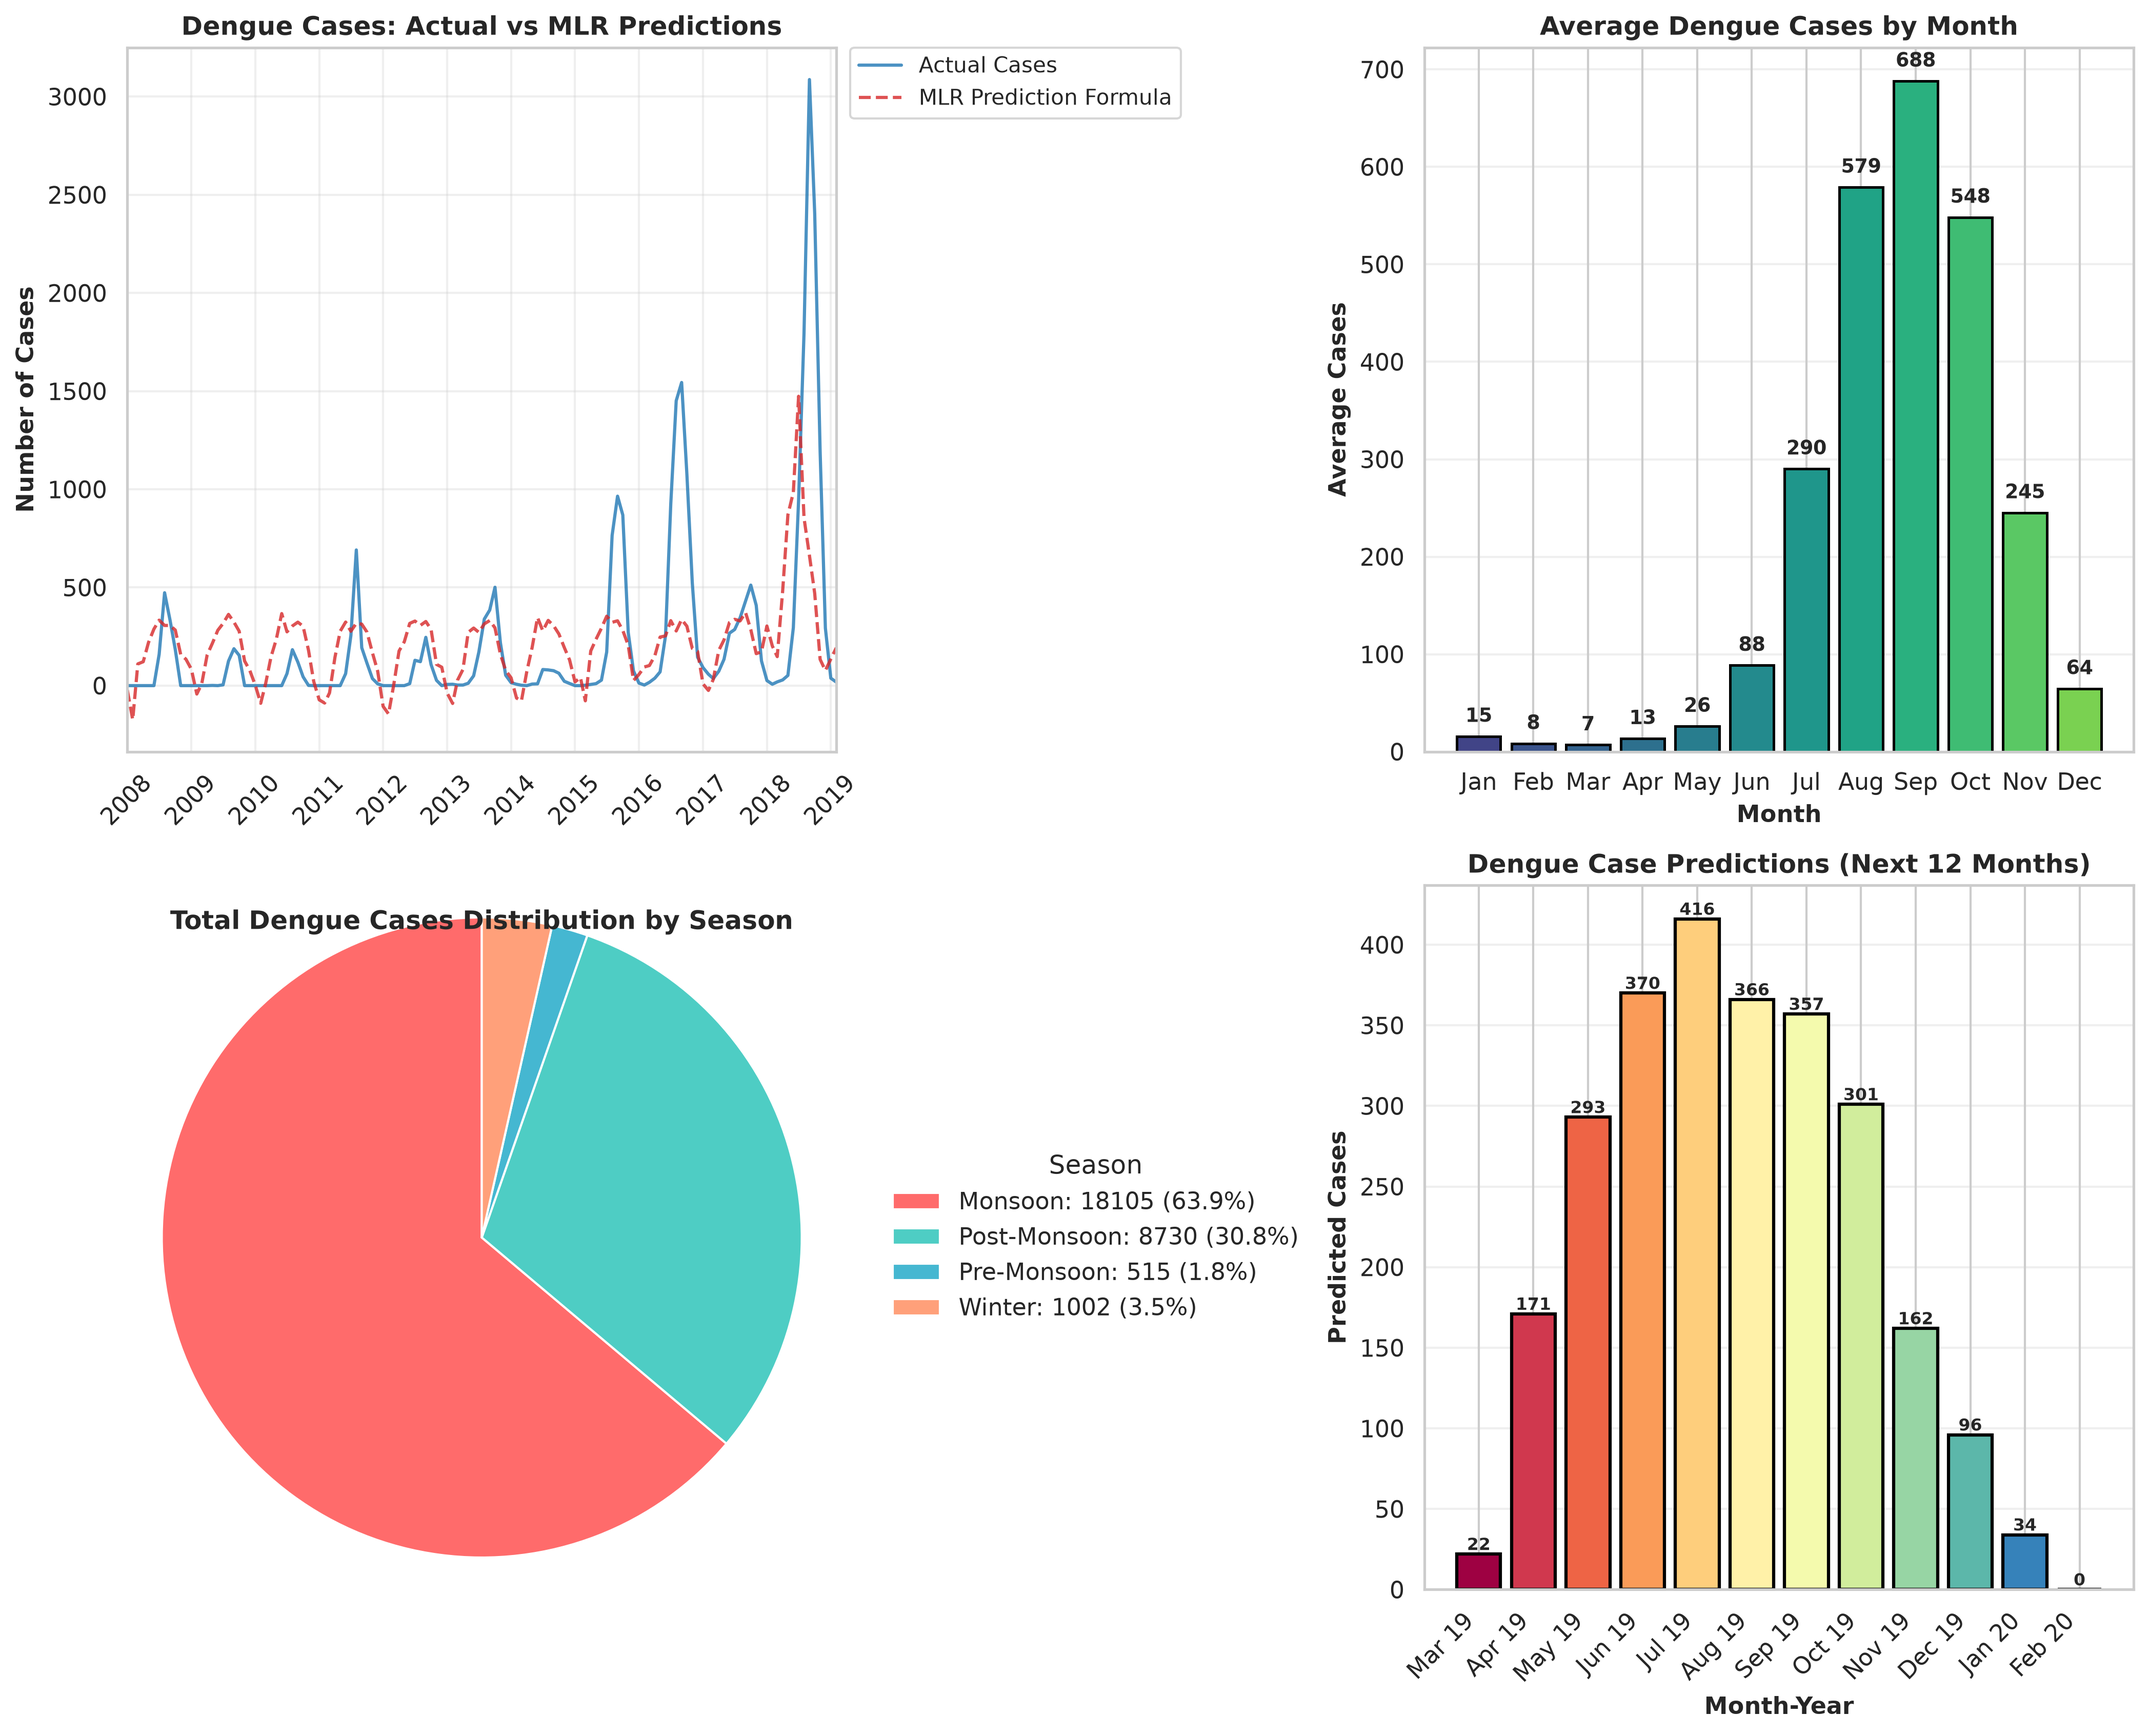
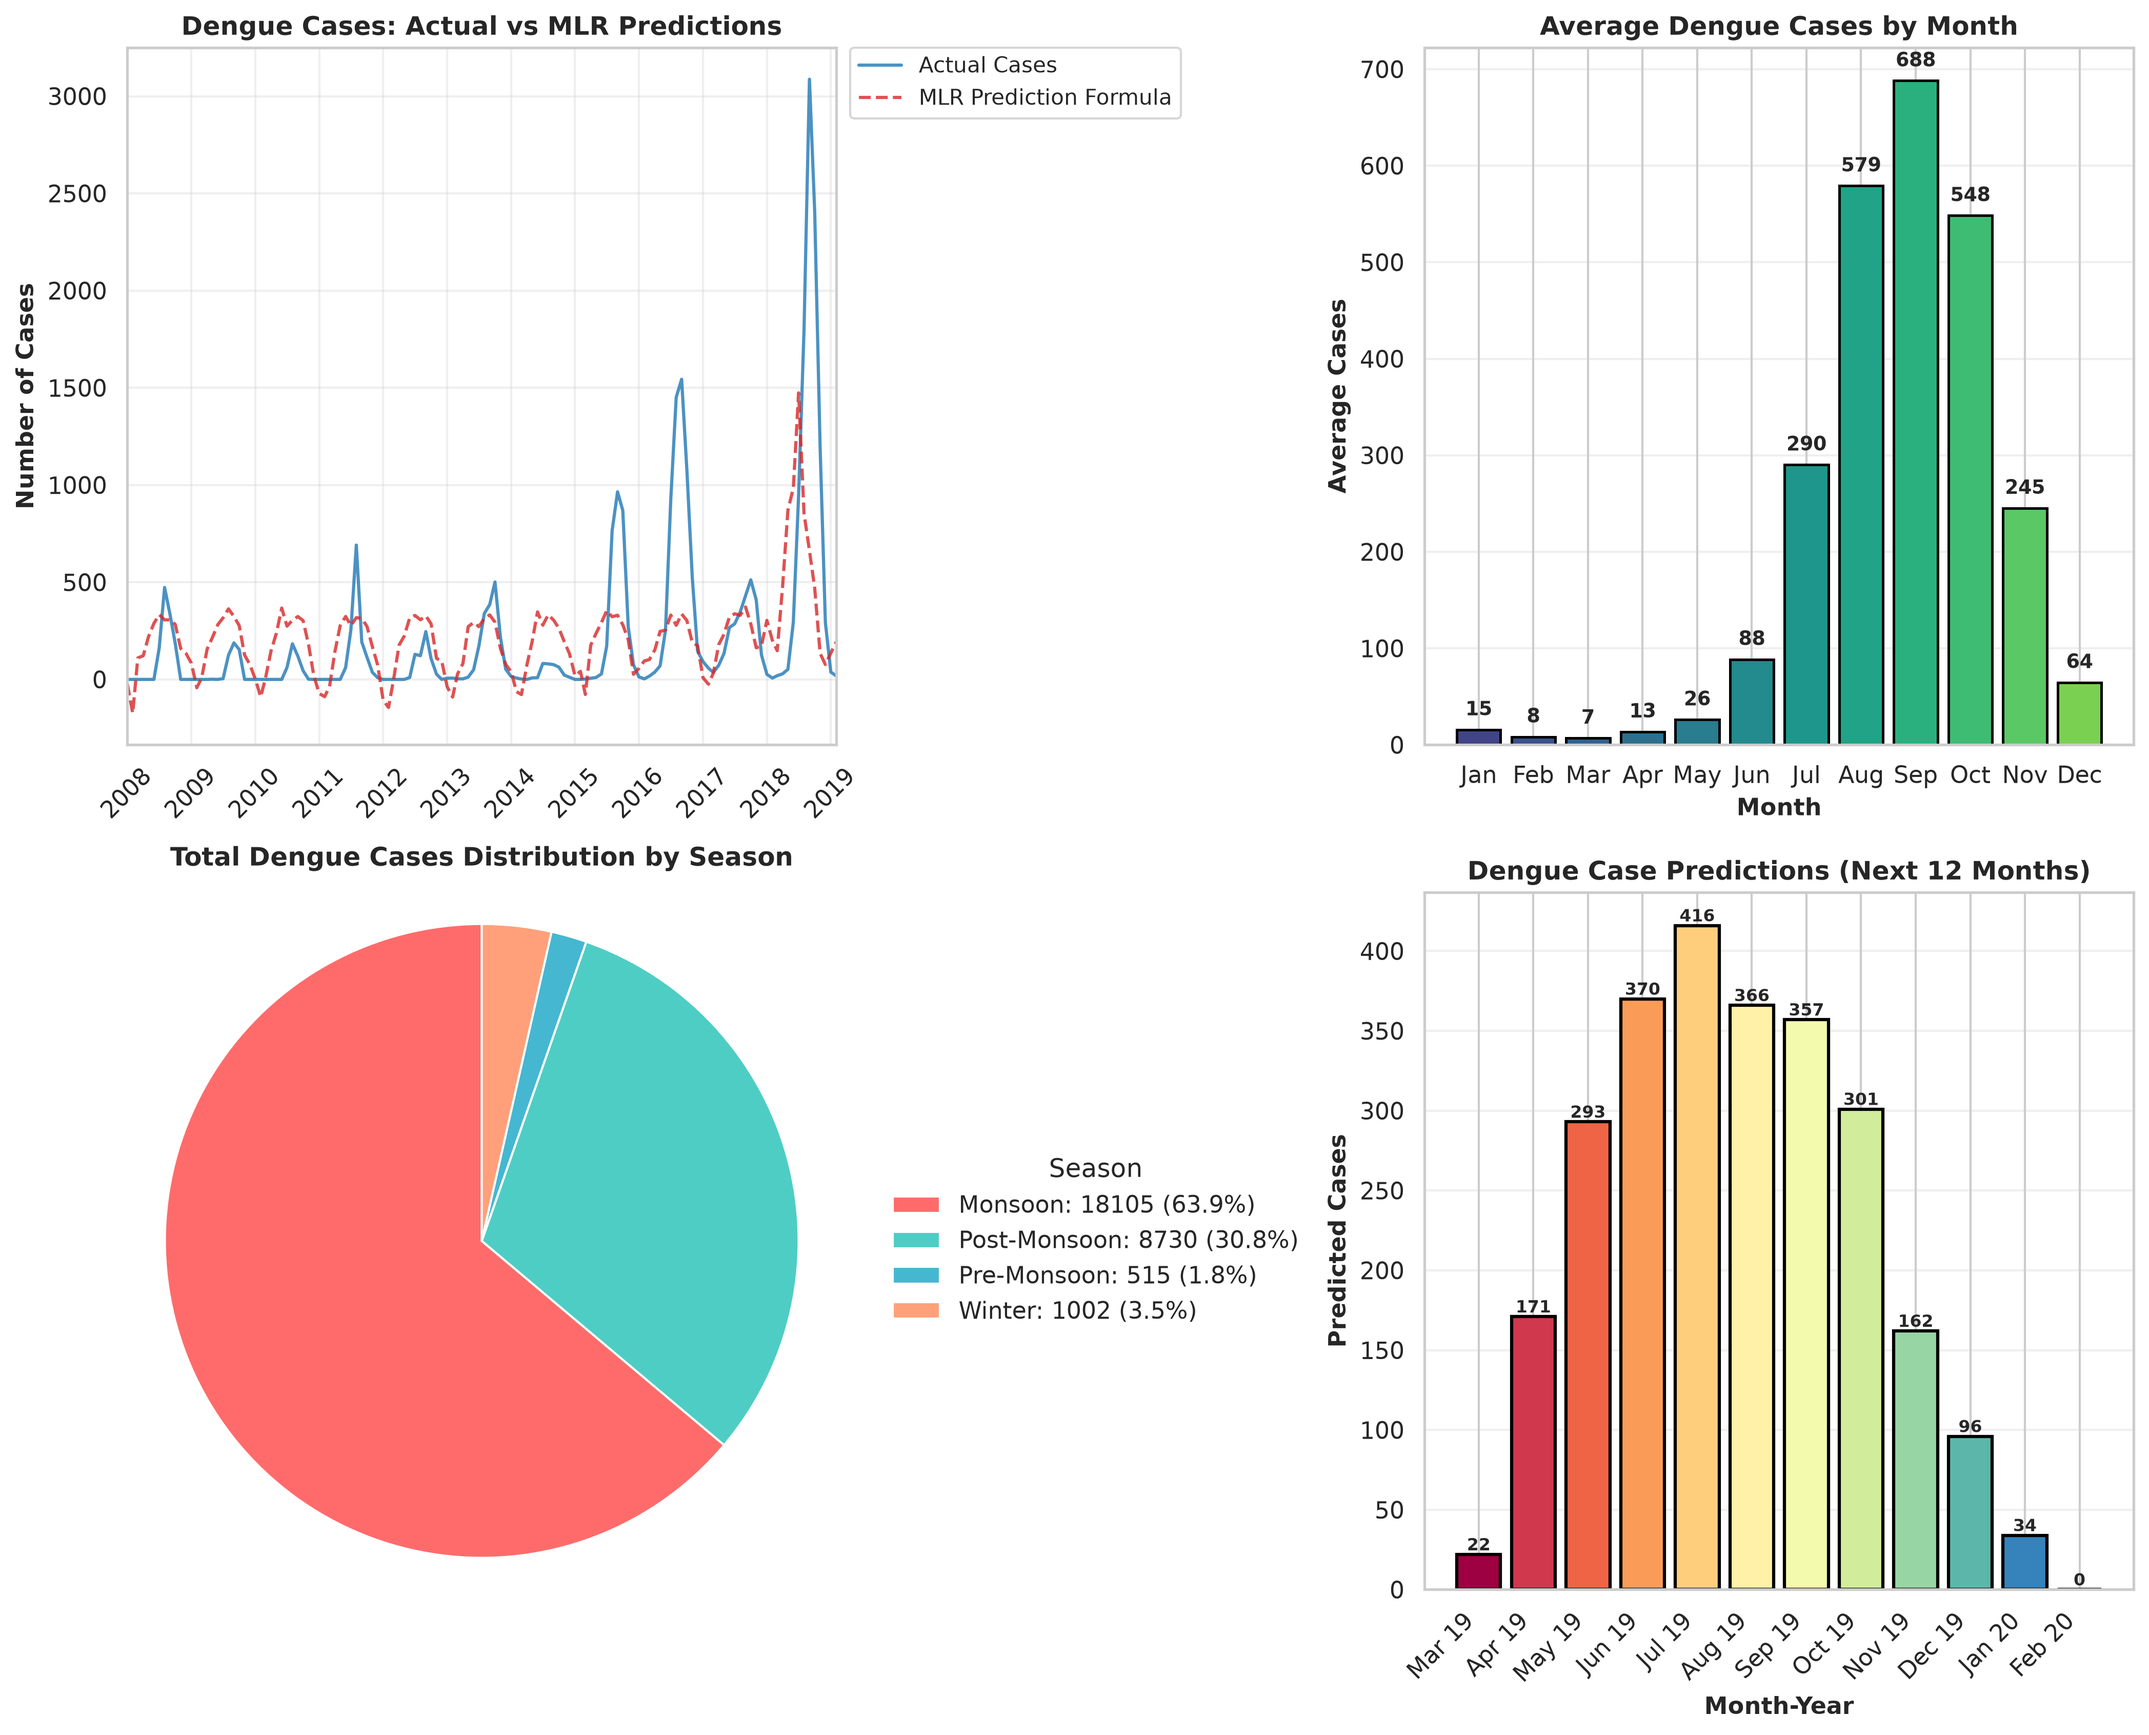
Reduce pie radius and move title to prevent overlap; regenerate images

diff --git a/DengueOutbreakPrediction/multi-linear regression/model.py b/DengueOutbreakPrediction/multi-linear regression/model.py
@@ -271,9 +271,10 @@ wedges, _texts = axes[1, 0].pie(
     labels=None,
     colors=colors_pie,
     startangle=90,
+    radius=0.85,
     wedgeprops={'edgecolor': 'white', 'linewidth': 1}
 )
-axes[1, 0].set_title('Total Dengue Cases Distribution by Season', fontsize=12, fontweight='bold', y=0.92)
+axes[1, 0].set_title('Total Dengue Cases Distribution by Season', fontsize=12, fontweight='bold', y=1.02)
 axes[1, 0].axis('equal')
 # Build legend labels that include counts and percentage values to avoid overlapping text
 total = seasonal_total.values.sum()
